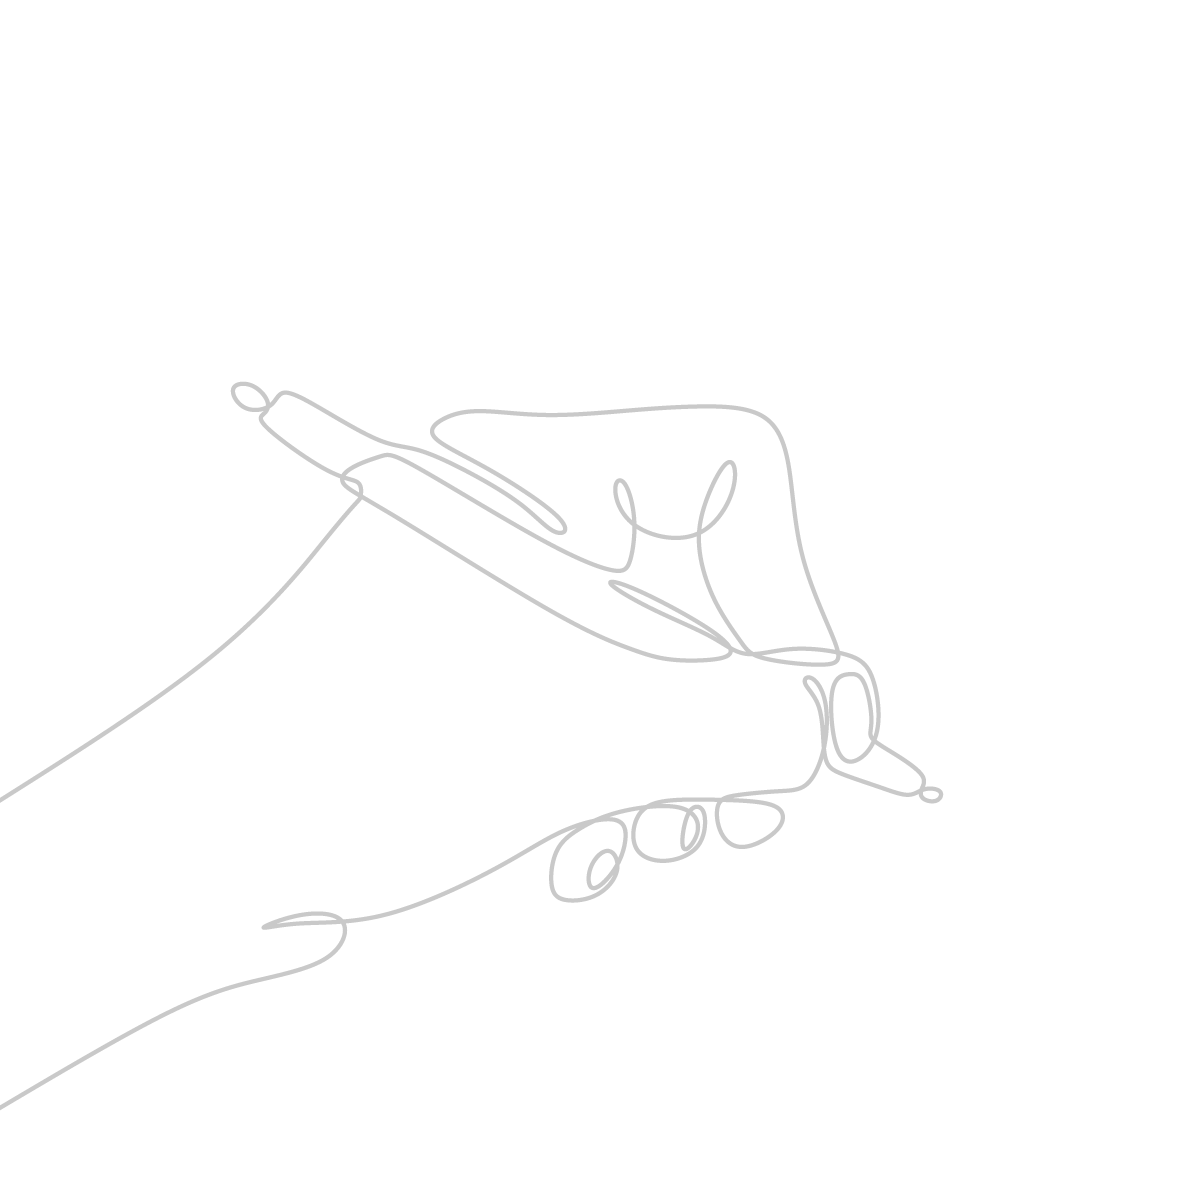
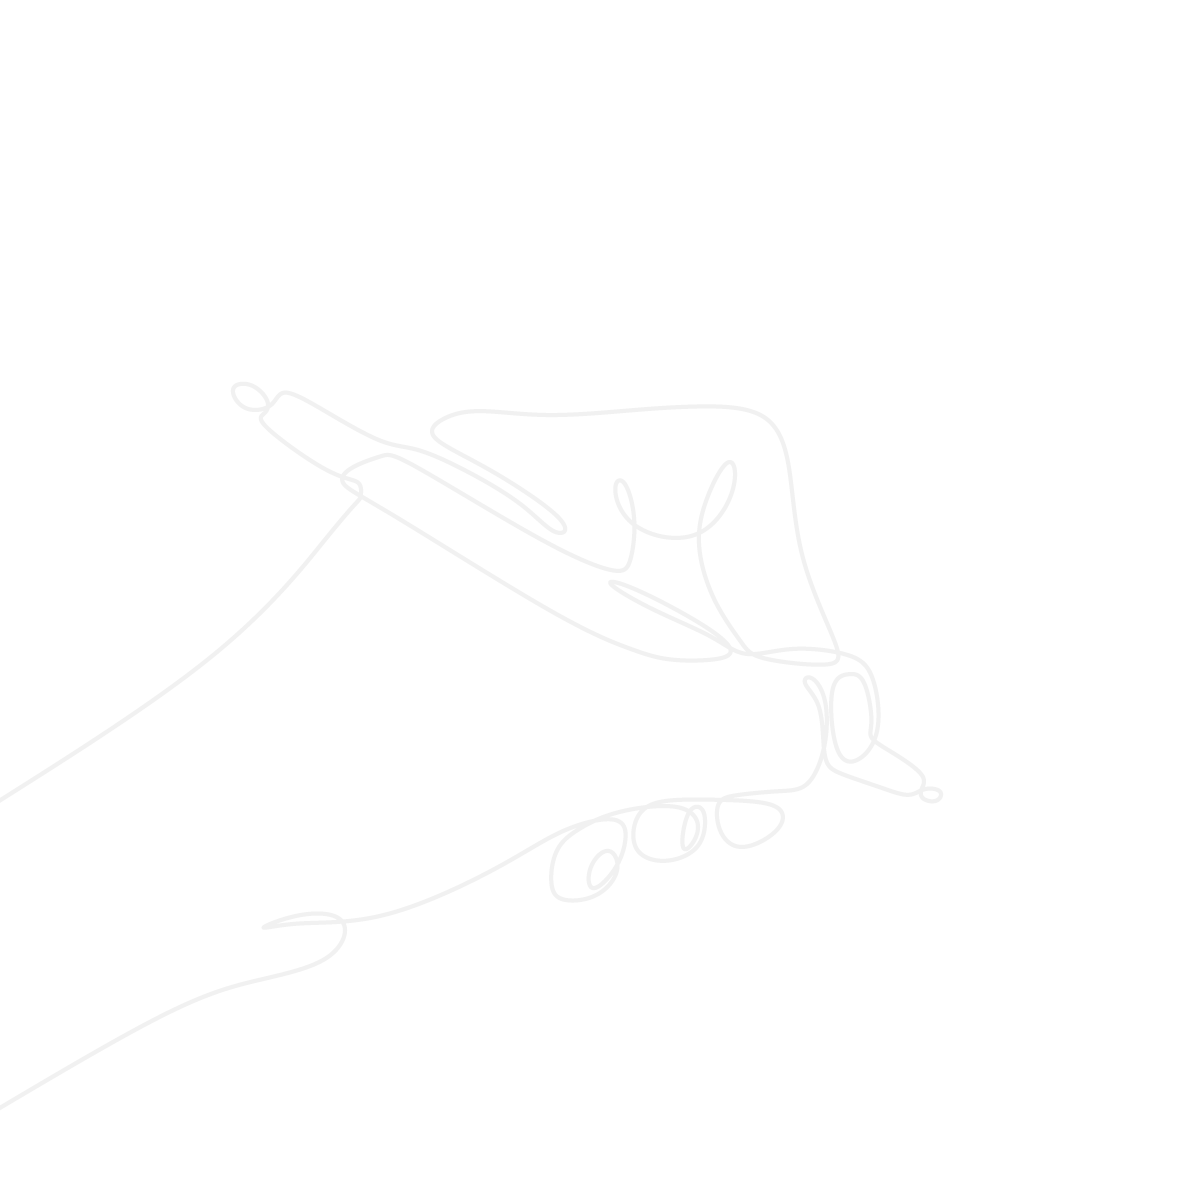
made bg images more transparent

diff --git a/index.html b/index.html
@@ -268,9 +268,10 @@
             <div class="row row-content p-3">
                 <div class="col my-auto text-white text-center">
                     <h5 style="font-family: 'Bodoni Moda', serif; ">Let's Connect!</h5>
-                    <a class="btn btn-social-icon btn-twitter text-light" href="http://twitter.com/">
+                    <a class="btn btn-social-icon btn-twitter text-light" href="https://twitter.com/ThatsReliable">
                         <i class="fa fa-twitter"> </i></a>
-                    <a class="btn btn-social-icon btn-google text-light" href="http://linkedin.com/">
+                    <a class="btn btn-social-icon btn-google text-light"
+                        href="https://www.linkedin.com/in/ingrid-scolet/">
                         <i class="fa fa-linkedin"></i></a>
                     <br />
                     <br />
